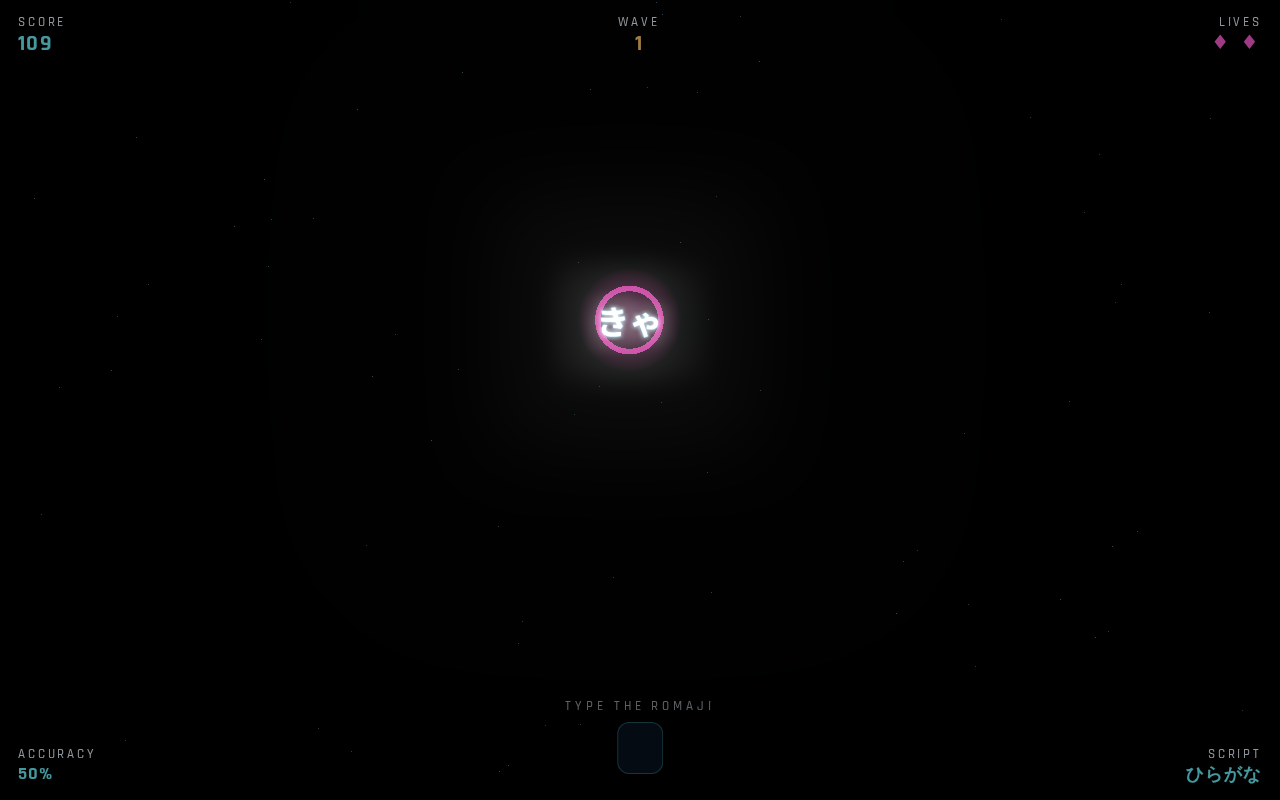
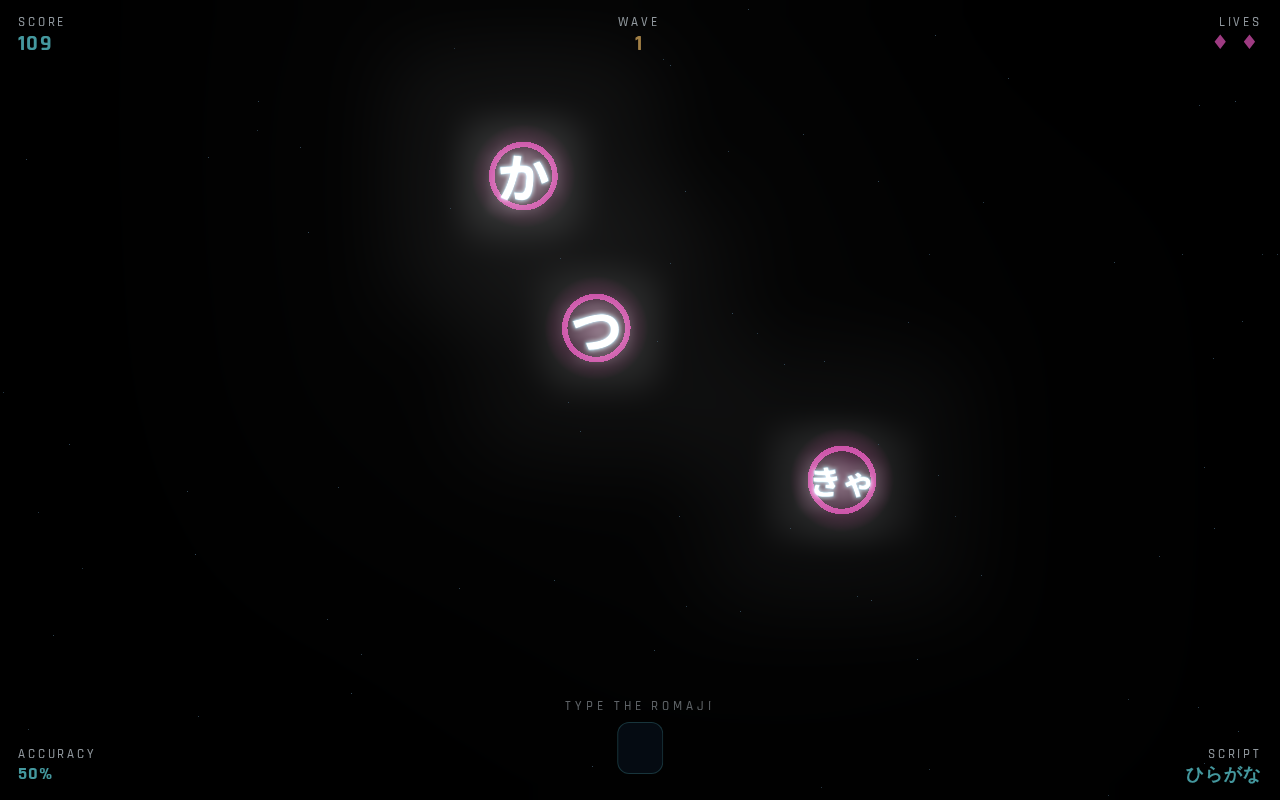
Cap enemy count at 3, not 1
Reverses the previous single-ship change: maxOnScreen is now a fixed 3
(was scaling 3→7 by wave before that, then a fixed 1). Enough ships to
force picking a target and make positioning during dodging meaningful
again, never enough to turn into clutter. Waves still ramp difficulty via
fall speed and fire timing, never by raising the cap further. The
RESPAWN_GAP fix from the single-ship change (don't leave an opened slot
sitting empty until the spawnIn timer happens to expire) stays relevant
here as a ceiling on refill time.

Test updates: the deterministic single-enemy spawns added for the
single-ship version (partial-word test, mobile backspace test) now also
park spawnIn so the natural spawner can't add a second ship with an
overlapping prefix mid-check. Restored a 3-ship lineup for the gameplay
screenshots (shot-gameplay.png, shot-katakana.png) to match what the game
actually shows.

Claude-Session: https://claude.ai/code/session_019cpcKUdB5Yisp8d3dSsc5r

Changed region(s): [[0.3438, 0.125, 0.4688, 0.3125], [0.5938, 0.5312, 0.7188, 0.6875], [0.4062, 0.3438, 0.5312, 0.4688]]

diff --git a/index.html b/index.html
@@ -702,9 +702,9 @@ function spawnBullet(from){
    7. GAME STATE
    ========================================================================== */
 
-// With only one kana on screen at a time, a kill/escape shouldn't leave the
-// field empty until the next spawnIn timer happens to expire (up to 1.5s) —
-// cap the wait so the next ship appears promptly.
+// A kill/escape shouldn't leave a spot empty until the next spawnIn timer
+// happens to expire (up to 1.5s) — cap the wait so a replacement appears
+// promptly once the field has room.
 const RESPAWN_GAP = 0.35;
 
 const S = {
@@ -713,10 +713,10 @@ const S = {
   score: 0, wave: 1, lives: 3,
   kills: 0, typed: 0, correct: 0,
   buffer: '', target: null,
-  // maxOnScreen is fixed at 1 — one kana to read and type at a time. Waves
-  // still ramp difficulty (falling speed, how soon the next one can fire),
-  // just never by crowding the screen.
-  spawnIn: 0, spawnEvery: 1.5, speed: 5.5, maxOnScreen: 1,
+  // maxOnScreen is fixed at 3 — never scales up with wave. Waves still ramp
+  // difficulty (falling speed, how soon the next one can fire), just never
+  // by crowding the screen further.
+  spawnIn: 0, spawnEvery: 1.5, speed: 5.5, maxOnScreen: 3,
   elapsed: 0, combo: 0, bestCombo: 0, invuln: 0,
   missedSetup: new Set(),
 };
@@ -953,7 +953,7 @@ function resetGame(){
   S.score = 0; S.wave = 1; S.lives = 3;
   S.kills = 0; S.typed = 0; S.correct = 0;
   S.buffer = ''; S.target = null;
-  S.spawnIn = 0.7; S.spawnEvery = 1.5; S.speed = 5.5; S.maxOnScreen = 1;
+  S.spawnIn = 0.7; S.spawnEvery = 1.5; S.speed = 5.5; S.maxOnScreen = 3;
   S.elapsed = 0; S.combo = 0; S.bestCombo = 0; S.invuln = 0;
 
   player.position.set(0, -38, 0);
@@ -1025,9 +1025,8 @@ function update(dt){
   }
 
   // ---- wave curve ----
-  // Enemy count never scales up (maxOnScreen is a fixed 1) — only the fall
-  // speed and the floor on back-to-back spawn gap do, from the fixed pool of
-  // one.
+  // Enemy count never scales up (maxOnScreen is a fixed 3) — only the fall
+  // speed and the floor on spawn gap do.
   const w = 1 + Math.floor(S.elapsed / 26);
   if (w !== S.wave){
     S.wave = w;

diff --git a/README.md b/README.md
@@ -1,8 +1,8 @@
 # Kana Shmup — かなシューティング
 
-A small Three.js shmup for drilling hiragana and katakana. One ship drifts
-down at a time, carrying a kana; **you destroy it by typing its romaji**, and
-the next appears right away. Let it reach the bottom and you lose a life.
+A small Three.js shmup for drilling hiragana and katakana. Up to three ships
+drift down at once, each carrying a kana; **you destroy one by typing its
+romaji.** Let a ship reach the bottom and you lose a life.
 
 ## Running it
 
@@ -48,11 +48,13 @@ never overlap.
 
 ## How the drill works
 
-- **One at a time.** Only one ship is ever on screen — no triage, no picking
-  which of several to engage. See a kana, recall it, type it, the next one
-  appears as soon as it's gone. Waves still ramp difficulty by making the
-  single ship fall faster and (from wave 3) shoot at you, never by crowding
-  the screen.
+- **At most three on screen.** Enough to force picking a target, never enough
+  to turn into clutter. A kill or an escape opens a slot and the next ship
+  appears right away. Waves ramp difficulty by making ships fall faster and
+  (from wave 3) shoot at you, never by raising the cap further.
+- **Targeting.** What you type matches against the *lowest* ship whose romaji
+  still fits what you've typed — the most urgent one. Matching ships are
+  highlighted, so you can see the lock before you finish the word.
 - **The answer is never shown.** Once you start a word the buffer shows your
   progress and placeholders, never the remaining letters. Handing over the rest
   of the word after the first keystroke would defeat the point for `tsu`,
